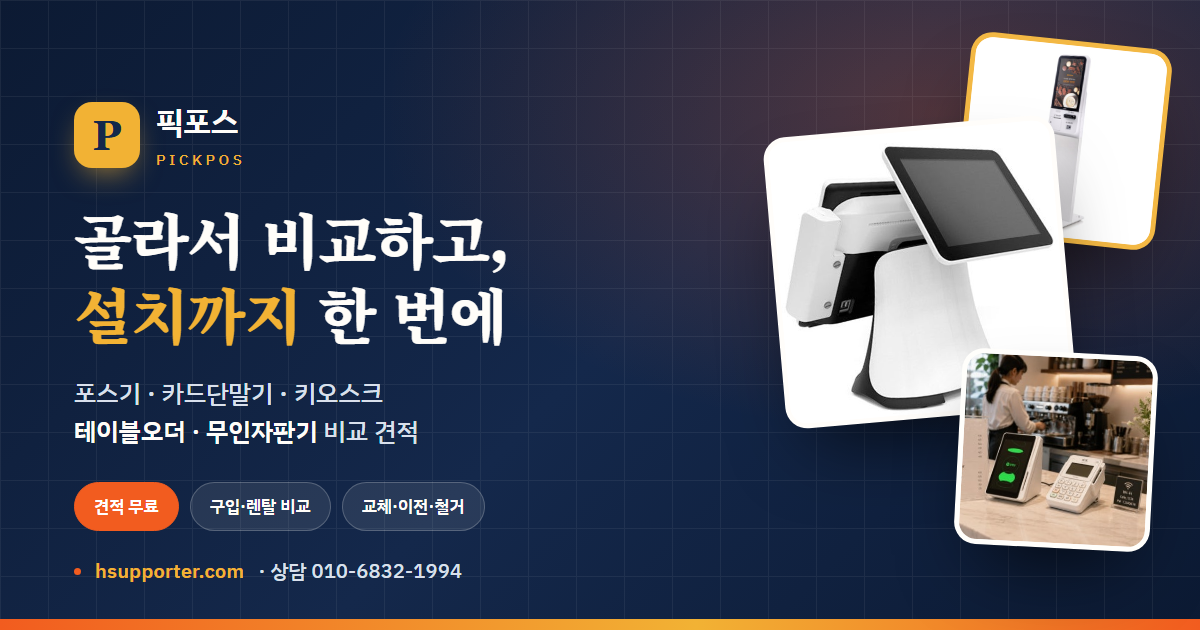
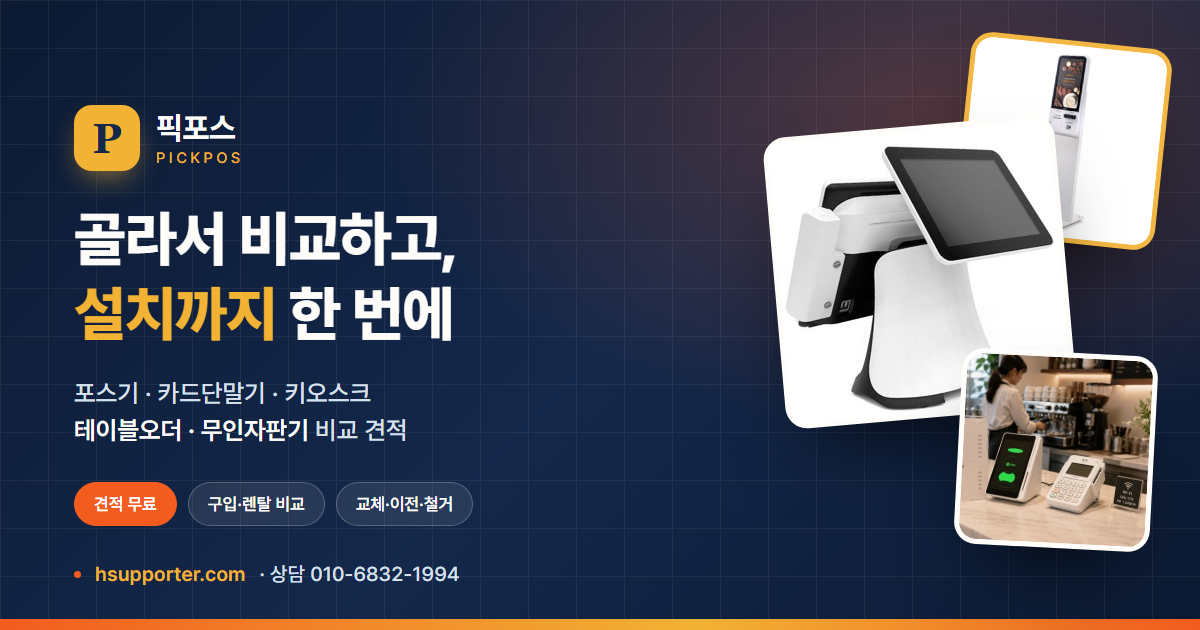
디자인 리뉴얼: hpos 완성도 반영, 브랜드 색은 유지
- 폰트 전면 교체: Noto Serif KR/IBM Plex Sans KR → Pretendard
- 상단 프로모 띠(.promobar) 추가
- 상단바 스크롤 시 테두리·그림자 (.top.is-scrolled)
- 스크롤 등장 효과(.reveal + IntersectionObserver), 모션 끄기 설정 존중
- 버튼 호버 리프트 + 색상 그림자, 타임라인·교체카드·FAQ 호버 디테일
- 히어로 헤드라인 골드 하이라이트 복구 (z-index:-1 때문에 배경 뒤로 숨던 버그)
- og-image 도 Pretendard 로 재렌더 + 캐시 버전 갱신
- 색(네이비/오렌지/골드)·레이아웃·문구는 그대로

diff --git a/style.css b/style.css
@@ -1,6 +1,6 @@
 /* =========================================================
    픽포스 (PickPOS) — 스타일
-   톤: 따뜻한 오프화이트 바탕 + 네이비 + 오렌지 포인트, 세리프 헤드라인
+   톤: 따뜻한 오프화이트 바탕 + 네이비 + 오렌지 포인트 / Pretendard
    ========================================================= */
 :root{
   --ink:#101827;
@@ -18,44 +18,53 @@
   --maxw:1160px;
   --radius:18px;
   --shadow:0 24px 60px -32px rgba(16,24,39,.35);
-  --serif:'Noto Serif KR', 'Nanum Myeongjo', serif;
-  --sans:'IBM Plex Sans KR', 'Noto Sans KR', system-ui, -apple-system, sans-serif;
+  --serif:'Pretendard Variable','Pretendard',system-ui,-apple-system,sans-serif;
+  --sans:'Pretendard Variable','Pretendard',system-ui,-apple-system,sans-serif;
+  --shadow-sm:0 10px 28px -18px rgba(16,24,39,.35);
+  --glow-accent:0 14px 28px -12px rgba(242,92,31,.55);
+  --glow-navy:0 14px 28px -14px rgba(20,40,75,.5);
 }
 *{box-sizing:border-box}
 html{scroll-behavior:smooth;-webkit-text-size-adjust:100%}
-body{margin:0;font-family:var(--sans);color:var(--ink);background:var(--paper);line-height:1.65;font-size:16px;word-break:keep-all}
+body{margin:0;font-family:var(--sans);color:var(--ink);background:var(--paper);line-height:1.65;font-size:16px;word-break:keep-all;-webkit-font-smoothing:antialiased;-moz-osx-font-smoothing:grayscale}
 img{max-width:100%;display:block}
 a{color:inherit;text-decoration:none}
 button{font-family:inherit;cursor:pointer}
 input,select,textarea{font-family:inherit;font-size:1rem}
 .wrap{max-width:var(--maxw);margin:0 auto;padding:0 22px}
 .wrap.narrow{max-width:820px}
-h1,h2,h3{margin:0;line-height:1.25;letter-spacing:-.01em}
-h1,.sec-head h2,.swap-copy h2,.quote-copy h2,.finder-head h2{font-family:var(--serif);font-weight:900}
+h1,h2,h3{margin:0;line-height:1.28;letter-spacing:-.022em}
+h1,.sec-head h2,.swap-copy h2,.quote-copy h2,.finder-head h2{font-family:var(--serif);font-weight:800}
 p{margin:0}
 ul,ol{margin:0;padding:0;list-style:none}
 
 /* ---------- 버튼 ---------- */
 .btn{display:inline-flex;align-items:center;justify-content:center;gap:8px;padding:12px 22px;border-radius:12px;font-weight:700;font-size:.95rem;border:2px solid transparent;transition:transform .15s,box-shadow .15s,background .15s}
-.btn:active{transform:translateY(1px)}
+.btn:active{transform:translateY(0);box-shadow:none}
 .btn-accent{background:var(--accent);color:#fff}
-.btn-accent:hover{background:var(--accent-dark)}
+.btn-accent:hover{background:var(--accent-dark);transform:translateY(-2px);box-shadow:var(--glow-accent)}
 .btn-navy{background:var(--navy);color:#fff}
-.btn-navy:hover{background:var(--navy-deep)}
+.btn-navy:hover{background:var(--navy-deep);transform:translateY(-2px);box-shadow:var(--glow-navy)}
 .btn-ghost{background:transparent;border-color:var(--navy);color:var(--navy)}
-.btn-ghost:hover{background:var(--navy);color:#fff}
+.btn-ghost:hover{background:var(--navy);color:#fff;transform:translateY(-2px);box-shadow:var(--glow-navy)}
 .btn-lg{padding:16px 28px;font-size:1.05rem;border-radius:14px}
 .btn-block{width:100%}
 
+/* ---------- 상단 프로모 띠 ---------- */
+.promobar{background:var(--navy-deep);color:rgba(255,255,255,.86);text-align:center;font-size:.82rem;line-height:1.5;padding:9px 16px}
+.promobar b{color:var(--gold);font-weight:700}
+
 /* ---------- 상단 바 ---------- */
-.top{position:sticky;top:0;z-index:50;background:rgba(255,253,249,.92);backdrop-filter:blur(10px);border-bottom:1px solid var(--line)}
+.top{position:sticky;top:0;z-index:50;background:rgba(255,253,249,.88);backdrop-filter:blur(12px);border-bottom:1px solid transparent;transition:border-color .2s,box-shadow .2s}
+.top.is-scrolled{border-bottom-color:var(--line);box-shadow:0 6px 22px -20px rgba(16,24,39,.7)}
 .top-in{display:flex;align-items:center;gap:28px;height:68px}
 .logo{display:flex;align-items:center;gap:10px}
 .logo-mark{width:36px;height:36px;border-radius:10px;background:var(--navy);color:var(--gold);font-family:var(--serif);font-weight:900;font-size:1.25rem;display:grid;place-items:center}
 .logo-text{font-weight:700;font-size:1.15rem;display:flex;flex-direction:column;line-height:1}
 .logo-text small{font-size:.62rem;letter-spacing:.18em;color:var(--muted);font-weight:600;margin-top:3px}
 .nav{display:flex;gap:22px;margin-left:auto;font-weight:600;font-size:.93rem;color:var(--muted)}
-.nav a:hover{color:var(--ink)}
+.nav a{transition:color .15s}
+.nav a:hover{color:var(--accent)}
 .top-cta{display:flex;align-items:center;gap:14px}
 .top-cta .tel{font-weight:700;color:var(--navy);letter-spacing:.01em}
 .ham{display:none;margin-left:auto;background:none;border:0;width:40px;height:40px;flex-direction:column;justify-content:center;gap:5px;align-items:center}
@@ -76,8 +85,7 @@ ul,ol{margin:0;padding:0;list-style:none}
 .hero-grid{display:grid;grid-template-columns:1.15fr .95fr;gap:48px;align-items:start}
 .eyebrow{font-size:.8rem;font-weight:700;letter-spacing:.12em;color:var(--accent);text-transform:uppercase;margin-bottom:18px}
 .hero h1{font-size:clamp(2.2rem,4.6vw,3.6rem);line-height:1.18}
-.hero h1 em{font-style:normal;color:var(--accent);position:relative}
-.hero h1 em::after{content:"";position:absolute;left:0;right:0;bottom:.08em;height:.22em;background:rgba(242,178,52,.45);z-index:-1;border-radius:4px}
+.hero h1 em{font-style:normal;color:var(--accent);background-image:linear-gradient(rgba(242,178,52,.5),rgba(242,178,52,.5));background-repeat:no-repeat;background-size:100% .2em;background-position:0 88%;padding:0 .05em}
 .lead{margin-top:22px;font-size:1.08rem;color:var(--muted);max-width:560px}
 .hero-points{margin-top:24px;display:flex;flex-direction:column;gap:9px}
 .hero-points li{padding-left:28px;position:relative;font-size:.97rem}
@@ -271,6 +279,30 @@ ul,ol{margin:0;padding:0;list-style:none}
 .mbar a{flex:1;text-align:center;padding:12px 0;border-radius:12px;font-weight:700;background:var(--cream);color:var(--navy);font-size:.95rem}
 .mbar .mbar-main{flex:1.6;background:var(--accent);color:#fff}
 
+/* ---------- 모션 · 호버 디테일 ---------- */
+.reveal{opacity:0;transform:translateY(20px);transition:opacity .6s ease,transform .6s ease}
+.reveal.in{opacity:1;transform:none}
+
+.timeline li{transition:transform .2s,box-shadow .2s,border-color .2s}
+.timeline li:hover{transform:translateY(-3px);box-shadow:var(--shadow-sm);border-color:var(--cream-deep)}
+.swap-card{transition:transform .2s,box-shadow .2s,border-color .2s}
+.swap-card:hover{transform:translateY(-3px);box-shadow:var(--shadow-sm);border-color:var(--cream-deep)}
+.faq details{transition:border-color .2s,box-shadow .2s}
+.faq details:hover{border-color:var(--cream-deep)}
+.faq details[open]{border-color:var(--navy);box-shadow:var(--shadow-sm)}
+.chip{cursor:pointer}
+.tab{transition:color .15s}
+.tab:hover{color:var(--ink)}
+.panel-media{transition:box-shadow .2s}
+.panel-media:hover{box-shadow:var(--shadow-sm)}
+.mbar a{transition:transform .15s,box-shadow .15s}
+.mbar a:active{transform:translateY(1px)}
+
+@media(prefers-reduced-motion:reduce){
+  *{animation:none!important;transition:none!important}
+  .reveal{opacity:1;transform:none}
+}
+
 /* ---------- 반응형 ---------- */
 @media (max-width:1000px){
   .hero-grid{grid-template-columns:1fr;gap:36px}
@@ -285,6 +317,7 @@ ul,ol{margin:0;padding:0;list-style:none}
   .quote-grid{grid-template-columns:1fr;gap:28px}
 }
 @media (max-width:760px){
+  .promobar{font-size:.74rem;padding:8px 14px}
   .nav,.top-cta{display:none}
   .ham{display:flex}
   .top-in{height:60px;gap:12px}

diff --git a/index.html b/index.html
@@ -17,7 +17,7 @@
 <meta property="og:description" content="업종과 규모만 고르면 맞는 장비 구성과 구입·렌탈 예상 비용을 바로 확인. 견적서 회신부터 설치·교체·철거까지 한 번에." />
 <meta property="og:url" content="https://hsupporter.com/" />
 <meta property="og:locale" content="ko_KR" />
-<meta property="og:image" content="https://hsupporter.com/og-image.png?v=20260902" />
+<meta property="og:image" content="https://hsupporter.com/og-image.png?v=20260903a" />
 <meta property="og:image:width" content="1200" />
 <meta property="og:image:height" content="630" />
 <meta property="og:image:type" content="image/png" />
@@ -26,13 +26,12 @@
 <meta name="twitter:card" content="summary_large_image" />
 <meta name="twitter:title" content="픽포스 — 포스기·카드단말기·키오스크·무인자판기, 골라서 비교하고 설치까지" />
 <meta name="twitter:description" content="업종과 규모만 고르면 맞는 장비 구성과 구입·렌탈 예상 비용을 바로 확인. 견적서 회신부터 설치·교체·철거까지 한 번에." />
-<meta name="twitter:image" content="https://hsupporter.com/og-image.png?v=20260902" />
+<meta name="twitter:image" content="https://hsupporter.com/og-image.png?v=20260903a" />
 
 <link rel="icon" href="favicon.svg" type="image/svg+xml" />
-<link rel="preconnect" href="https://fonts.googleapis.com" />
-<link rel="preconnect" href="https://fonts.gstatic.com" crossorigin />
-<link href="https://fonts.googleapis.com/css2?family=IBM+Plex+Sans+KR:wght@400;500;600;700&family=Noto+Serif+KR:wght@700;900&display=swap" rel="stylesheet" />
-<link rel="stylesheet" href="style.css?v=20260829d" />
+<link rel="preconnect" href="https://cdn.jsdelivr.net" crossorigin />
+<link rel="stylesheet" as="style" crossorigin href="https://cdn.jsdelivr.net/gh/orioncactus/pretendard@v1.3.9/dist/web/variable/pretendardvariable-dynamic-subset.min.css" />
+<link rel="stylesheet" href="style.css?v=20260903a" />
 
 <script type="application/ld+json">
 {
@@ -75,6 +74,11 @@
 </script>
 </head>
 <body>
+
+<!-- ===== 상단 프로모 띠 ===== -->
+<div class="promobar">
+  <span class="promobar-in">📊 구입 · 렌탈 · 중고 <b>세 가지 비용 한 번에 비교</b> · 견적 신청 당일 회신 · 전국 출장 설치</span>
+</div>
 
 <!-- ===== 상단 바 ===== -->
 <header class="top" id="top">
@@ -187,13 +191,13 @@
 <!-- ===== 카탈로그 ===== -->
 <section class="sec" id="catalog">
   <div class="wrap">
-    <div class="sec-head">
+    <div class="sec-head reveal">
       <span class="num">01</span>
       <h2>장비 카탈로그</h2>
       <p>장비마다 어떤 매장에 맞는지, 구입과 렌탈 중 무엇이 유리한지 정리했습니다.</p>
     </div>
 
-    <div class="tabs" role="tablist" aria-label="장비 종류">
+    <div class="tabs reveal" role="tablist" aria-label="장비 종류">
       <button class="tab is-on" role="tab" aria-selected="true" data-tab="pos">포스기</button>
       <button class="tab" role="tab" aria-selected="false" data-tab="terminal">카드단말기</button>
       <button class="tab" role="tab" aria-selected="false" data-tab="kiosk">키오스크</button>
@@ -324,7 +328,7 @@
 <!-- ===== 비용 계산기 ===== -->
 <section class="sec sec-dark" id="calc">
   <div class="wrap">
-    <div class="sec-head light">
+    <div class="sec-head light reveal">
       <span class="num">02</span>
       <h2>구입 vs 렌탈, 36개월 총비용 계산</h2>
       <p>필요한 장비와 수량을 넣으면 두 방식의 초기비용·월비용·3년 총비용을 나란히 보여줍니다.</p>
@@ -382,12 +386,12 @@
 <!-- ===== 진행 절차 ===== -->
 <section class="sec" id="process">
   <div class="wrap">
-    <div class="sec-head">
+    <div class="sec-head reveal">
       <span class="num">03</span>
       <h2>신청부터 설치까지, 이렇게 진행됩니다</h2>
       <p>담당자 한 명이 처음부터 끝까지 맡습니다. 중간에 업체가 바뀌지 않습니다.</p>
     </div>
-    <ol class="timeline">
+    <ol class="timeline reveal">
       <li>
         <span class="tl-step">STEP 1</span>
         <h3>견적 신청</h3>
@@ -419,12 +423,12 @@
 <!-- ===== 업종별 추천 세트 ===== -->
 <section class="sec sec-cream" id="sets">
   <div class="wrap">
-    <div class="sec-head">
+    <div class="sec-head reveal">
       <span class="num">04</span>
       <h2>업종별 추천 세트</h2>
       <p>같은 업종 매장에서 가장 많이 선택하는 조합입니다. 그대로 견적 받거나 원하는 대로 바꿔도 됩니다.</p>
     </div>
-    <div class="sets">
+    <div class="sets reveal">
       <article class="set">
         <div class="set-icon" aria-hidden="true">☕</div>
         <h3>카페 · 디저트</h3>
@@ -474,7 +478,7 @@
 <!-- ===== 교체 · 이전 · 철거 ===== -->
 <section class="sec" id="swap">
   <div class="wrap swap-grid">
-    <div class="swap-copy">
+    <div class="swap-copy reveal">
       <span class="num">05</span>
       <h2>쓰던 장비, 그냥 두고 가지 마세요</h2>
       <p class="lead">
@@ -483,7 +487,7 @@
       </p>
       <a class="btn btn-navy" href="#quote" data-pick="교체·이전·철거">교체·철거 문의</a>
     </div>
-    <div class="swap-cards">
+    <div class="swap-cards reveal">
       <div class="swap-card">
         <h3>교체</h3>
         <p>오래된 포스·단말기를 새 장비로. 기존 가맹 정보와 메뉴 데이터를 옮겨 결제 공백 없이 같은 날 전환합니다.</p>
@@ -507,11 +511,11 @@
 <!-- ===== FAQ ===== -->
 <section class="sec sec-cream" id="faq">
   <div class="wrap narrow">
-    <div class="sec-head">
+    <div class="sec-head reveal">
       <span class="num">06</span>
       <h2>자주 묻는 질문</h2>
     </div>
-    <div class="faq">
+    <div class="faq reveal">
       <details open>
         <summary>구입과 렌탈 중 어느 쪽이 유리한가요?</summary>
         <p>3년 이상 같은 자리에서 운영할 계획이면 구입이, 초기 비용을 아끼거나 매장 변동 가능성이 있으면 렌탈이 유리한 경우가 많습니다. 위 <a href="#calc">비용 계산기</a>에서 36개월 총비용을 직접 비교해 보세요. 견적서에는 두 방식을 모두 넣어 드립니다.</p>
@@ -543,7 +547,7 @@
 <!-- ===== 견적 신청 ===== -->
 <section class="sec sec-quote" id="quote">
   <div class="wrap quote-grid">
-    <div class="quote-copy">
+    <div class="quote-copy reveal">
       <span class="num light">07</span>
       <h2>무료 견적 신청</h2>
       <p>업종과 원하는 장비만 적어 주세요. 영업일 기준 당일 안에 담당자가 연락드립니다.</p>
@@ -555,7 +559,7 @@
       </div>
     </div>
 
-    <form class="qform" id="quoteForm" novalidate>
+    <form class="qform reveal" id="quoteForm" novalidate>
       <div class="f-row two">
         <label>이름 / 상호 <span class="req">*</span><input type="text" id="q_name" placeholder="홍길동 / 길동카페" required /></label>
         <label>연락처 <span class="req">*</span><input type="tel" id="q_phone" placeholder="010-0000-0000" required /></label>
@@ -642,7 +646,7 @@
   <a href="#quote" class="mbar-main">견적 받기</a>
 </div>
 
-<script src="script.js?v=20260829d"></script>
-<script src="form.js?v=20260829d"></script>
+<script src="script.js?v=20260903a"></script>
+<script src="form.js?v=20260903a"></script>
 </body>
 </html>

diff --git a/og-image.source.html b/og-image.source.html
@@ -2,14 +2,13 @@
 <html lang="ko">
 <head>
 <meta charset="UTF-8" />
-<link rel="preconnect" href="https://fonts.googleapis.com" />
-<link rel="preconnect" href="https://fonts.gstatic.com" crossorigin />
-<link href="https://fonts.googleapis.com/css2?family=IBM+Plex+Sans+KR:wght@400;500;600;700&family=Noto+Serif+KR:wght@700;900&display=swap" rel="stylesheet" />
+<link rel="preconnect" href="https://cdn.jsdelivr.net" crossorigin />
+<link rel="stylesheet" as="style" crossorigin href="https://cdn.jsdelivr.net/gh/orioncactus/pretendard@v1.3.9/dist/web/variable/pretendardvariable-dynamic-subset.min.css" />
 <style>
   *{margin:0;padding:0;box-sizing:border-box}
   html,body{width:1200px;height:630px;overflow:hidden}
   body{
-    font-family:'IBM Plex Sans KR','Malgun Gothic',sans-serif;
+    font-family:'Pretendard Variable','Pretendard','Malgun Gothic',sans-serif;
     background:
       radial-gradient(900px 520px at 78% 18%, rgba(242,92,31,.28), transparent 62%),
       linear-gradient(135deg,#0C1A33 0%,#14284B 52%,#0C1A33 100%);
@@ -31,7 +30,7 @@
   .name span{display:block;font-size:15px;font-weight:500;letter-spacing:.24em;
     color:#F2B234;margin-top:3px}
 
-  h1{font-family:'Noto Serif KR','Nanum Myeongjo',serif;font-weight:900;
+  h1{font-family:'Pretendard Variable','Pretendard',sans-serif;font-weight:800;
     font-size:60px;line-height:1.25;letter-spacing:-.02em;margin-bottom:24px}
   h1 em{font-style:normal;color:#F2B234}
 

diff --git a/script.js b/script.js
@@ -169,3 +169,22 @@ mnav.addEventListener("click", e => { if(e.target.tagName === "A"){ mnav.classLi
 
 /* ---------- 연도 ---------- */
 document.getElementById("year").textContent = new Date().getFullYear();
+
+/* ---------- 상단 바 스크롤 상태 ---------- */
+const topBar = document.getElementById("top");
+const onScroll = () => topBar.classList.toggle("is-scrolled", window.scrollY > 10);
+addEventListener("scroll", onScroll, { passive: true });
+onScroll();
+
+/* ---------- 스크롤 등장 효과 ---------- */
+const revealEls = document.querySelectorAll(".reveal");
+if("IntersectionObserver" in window){
+  const io = new IntersectionObserver(entries => {
+    entries.forEach(en => {
+      if(en.isIntersecting){ en.target.classList.add("in"); io.unobserve(en.target); }
+    });
+  }, { threshold: .12, rootMargin: "0px 0px -40px 0px" });
+  revealEls.forEach(el => io.observe(el));
+}else{
+  revealEls.forEach(el => el.classList.add("in"));
+}

diff --git a/작업노트.md b/작업노트.md
@@ -7,7 +7,7 @@
 - **사이트 성격**: 픽포스 — 포스기·카드단말기·키오스크·테이블오더·무인자판기 **비교 견적** 랜딩 페이지
 - **기존 사이트(hpos.co.kr, 리포 `yoon`)와의 차이**: 같은 상품을 다루지만 완전히 다른 사이트
   - hpos = 지역(동 단위) 검색 중심, 초록색, "설치비 무료·평균 4일·24시간 AS" 메시지
-  - 픽포스 = **장비 진단 → 구입·렌탈 36개월 비용 계산 → 견적 신청** 흐름, 네이비+오렌지, 세리프 헤드라인
+  - 픽포스 = **장비 진단 → 구입·렌탈 36개월 비용 계산 → 견적 신청** 흐름, 네이비+오렌지, Pretendard
   - 문구·섹션·디자인 전부 새로 작성. 상품 사진 6장만 hpos에서 가져옴 (images/)
 - **브랜드명**: 픽포스 (PickPOS) — 원하면 index.html에서 일괄 치환
 - **도메인**: https://hsupporter.com/ (구입 완료, CNAME 파일 있음). 가비아 DNS: A레코드 4개(@→185.199.108.153 / 109.153 / 110.153 / 111.153) + CNAME(www→x26589334-cpu.github.io.)
@@ -36,6 +36,13 @@
 ## 🔧 작업 방식
 - 수정 → `git add -A; git commit -m "내용"; git push` → 1~2분 뒤 반영
 - 작업 시작 전 `git pull`, 끝나면 `git push`
+
+## 🎨 디자인 (2026-09-03 리뉴얼)
+- hpos의 **완성도**만 참고하고 **색은 픽포스 그대로**(네이비 #14284B + 오렌지 #F25C1F + 골드) 유지 — 두 사이트를 색으로 구분
+- 폰트: 세리프(Noto Serif KR) → **Pretendard** 로 전면 교체. `--serif`/`--sans` 변수 둘 다 Pretendard 를 가리키므로, 변수만 바꾸면 한 번에 되돌릴 수 있음
+- hpos 에서 가져온 것: 상단 프로모 띠(`.promobar`), 스크롤 시 그림자 생기는 상단바(`.top.is-scrolled`), 스크롤 등장 효과(`.reveal` + IntersectionObserver), 버튼 호버 리프트
+- `.reveal` 클래스를 붙인 요소는 화면에 들어올 때 나타남. **새 섹션을 추가하면 `class="... reveal"` 을 같이 붙일 것** (안 붙이면 그냥 처음부터 보임 — 깨지지는 않음)
+- 모션 끄기 설정(`prefers-reduced-motion`)한 사용자에겐 애니메이션 전부 비활성
 
 ## 🖼 OG 이미지 (공유 썸네일)
 - `og-image.png` (1200×630) — 카톡·네이버·페이스북에 링크 공유할 때 뜨는 썸네일. index.html의 `og:image`/`twitter:image`, JSON-LD `image` 에 연결됨

diff --git a/CLAUDE.md b/CLAUDE.md
@@ -1,0 +1,26 @@
+# 픽포스(PickPOS) — 작업 지침
+
+**작업 시작 전에 `작업노트.md` 를 반드시 읽을 것.** 브랜드·도메인·금액·시트 연동·OG 이미지 등
+이 사이트의 모든 배경 정보와 미확인 항목이 거기 정리돼 있다.
+
+## 사이트
+- 정적 사이트(빌드 없음). `index.html` + `style.css` + `script.js` + `form.js`
+- 배포: GitHub Pages (main / root) → https://hsupporter.com/ · 푸시 후 1~2분이면 반영
+- 리포: https://github.com/x26589334-cpu/pickpos
+
+## 주의사항
+- **캐시 버전**: `style.css` / `script.js` / `og-image.png` 를 수정하면 `index.html` 안의
+  `?v=` 값을 전부 올려야 방문자에게 반영된다. 안 올리면 "바뀐 게 없다"가 된다.
+- **금액**: 단가는 `script.js` 맨 위 `PRICE` 객체와 `index.html` 표기 **두 군데**에 있다. 항상 같이 고칠 것.
+- **전화번호**: `01068321994`, `010-6832-1994` — index.html·form.js 에 흩어져 있음.
+- **색상**: `style.css` 맨 위 `:root` 변수.
+- `og-image.png` 는 직접 고치지 말고 `og-image.source.html` 을 고쳐서 다시 렌더 (방법은 작업노트.md).
+
+## 작업 흐름
+```
+git pull            # 시작 전
+git add -A; git commit -m "내용"; git push    # 끝나면
+```
+
+## 사용자 안내
+코딩 초보자다. 설명은 버튼 하나하나 짚어주듯 천천히, 한국어로.
